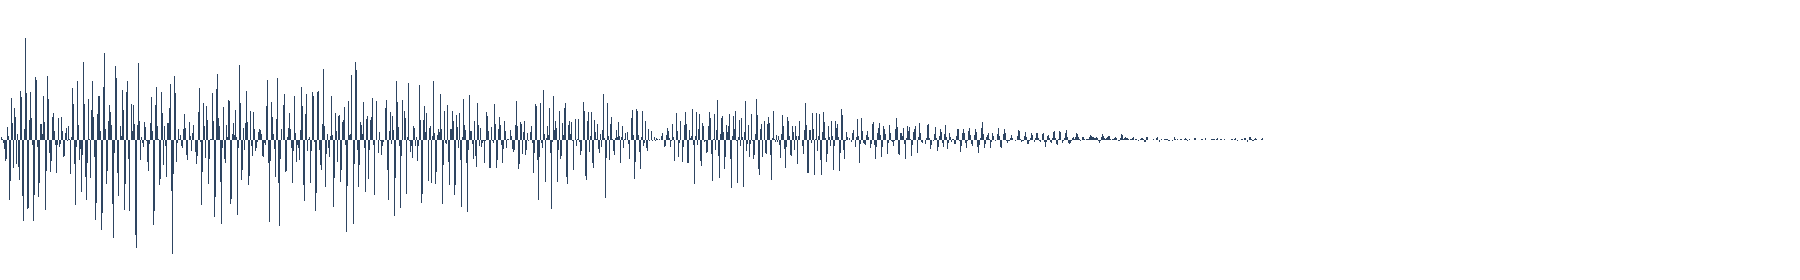
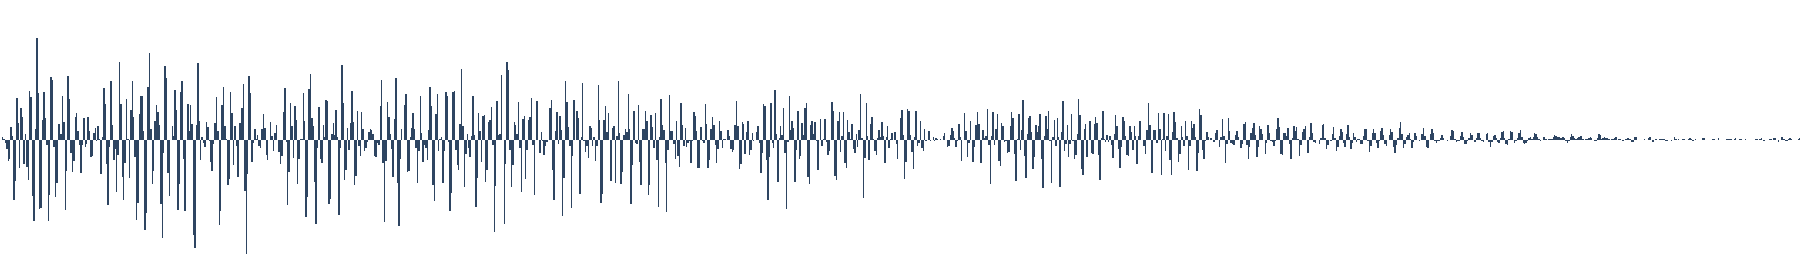
fixed a bug, that caused the image not to fill up completely, when there where less samples than vertical pixels

Changed region(s): [[0.0, 0.2571, 0.9333, 0.8286]]

diff --git a/src/wav2png.cpp b/src/wav2png.cpp
@@ -57,20 +57,43 @@ template <> struct sample_scale<float>
   static const float value = 1.0f;
 };
 
-void compute_waveform(const SndfileHandle& wav, png::image< png::rgba_pixel >& image, const png::rgba_pixel& bg_color)
+/*
+  compute the waveform of the supplied audio-file and store it into out_image.
+*/
+void compute_waveform(
+  const SndfileHandle& wav,
+  png::image< png::rgba_pixel >&
+  out_image,
+  const png::rgba_pixel& bg_color,
+  const png::rgba_pixel& fg_color
+)
 {
   using std::size_t;
   using std::cerr;
   using std::endl;
 
+  const unsigned h = out_image.get_height();
+
   // you can change it to float or short, short was much faster for me.
   typedef short sample_type;
 
-  const size_t w = image.get_width();
-  const size_t h = image.get_height();
+  //there might not be enough samples, in this case, we're using a smaller image and scale it up later.
+  //std::cerr << wav.frames() << std::endl;
+  png::image< png::rgba_pixel > small_image;
+  bool not_enough_samples = wav.frames() < (sf_count_t)out_image.get_width();
 
-  int frames_per_pixel  = std::max<int>(1, wav.frames() / w);
+  if (not_enough_samples)
+    small_image = png::image< png::rgba_pixel >( wav.frames()>0?wav.frames():1, out_image.get_height() );
+
+  png::image< png::rgba_pixel >& image = not_enough_samples?small_image:out_image;
+
+  assert(image.get_width() > 0);
+
+  //std::cout << (&image==&out_image) << " " << (&image==&small_image) << std::endl;
+
+  int frames_per_pixel  = std::max<int>(1, wav.frames() / image.get_width());
   int samples_per_pixel = wav.channels() * frames_per_pixel;
+  std::size_t progress_divisor = std::max<std::size_t>(1, image.get_width()/100);
 
   // temp buffer for samples from audio file
   std::vector<sample_type> block(samples_per_pixel);
@@ -79,7 +102,7 @@ void compute_waveform(const SndfileHandle& wav, png::image< png::rgba_pixel >& i
     for each vertical pixel in the image (x), read frames_per_pixel frames from
     the audio file and find the min and max values.
   */
-  for (size_t x = 0; x < w; ++x)
+  for (size_t x = 0; x < image.get_width(); ++x)
   {
     // read frames
     sf_count_t n = const_cast<SndfileHandle&>(wav).readf(&block[0], frames_per_pixel) * wav.channels();
@@ -107,18 +130,34 @@ void compute_waveform(const SndfileHandle& wav, png::image< png::rgba_pixel >& i
     for(size_t y=0; y<y1;++y)
       image.set_pixel(x, y, bg_color);
 
+    // fill span min to max
+    for(size_t y=y1; y<y2;++y)
+      image.set_pixel(x, y, fg_color);
+
     // fill span max to bottom
     for(size_t y = y2; y<h; ++y)
       image.set_pixel(x, y, bg_color);
     
     // print progress
-    if ( x%(w/100) == 0 )
+    if ( x%(progress_divisor) == 0 )
     {
-      cerr << "\b\b\b\b\b\b\b\b\b\b\b\b\b\b\b\b\b\b\b\bconverting: " << 100*x/w << "%";
+      cerr << "\b\b\b\b\b\b\b\b\b\b\b\b\b\b\b\b\b\b\b\bconverting: " << 100*x/image.get_width() << "%";
     }
   }
   
   cerr << "\b\b\b\b\b\b\b\b\b\b\b\b\b\b\b\b\b\b\b\bconverting: 100%" << endl;
+
+  // upscale the generated image
+  if (not_enough_samples)
+  {
+    for (std::size_t y=0; y<out_image.get_height(); ++y)
+      for(std::size_t x=0; x<out_image.get_width(); ++x)
+      {
+        std::size_t xx = x*small_image.get_width()/out_image.get_width();
+        assert( xx < out_image.get_width() );
+        out_image[y][x] = small_image[y][xx];
+      }
+  }
 }
 
 
@@ -146,16 +185,8 @@ int main(int argc, char* argv[])
   // create image
   png::image< png::rgba_pixel > image(options.width, options.height);
 
-  for(std::size_t y=0; y<image.get_height(); ++y )
-  {
-    for(std::size_t x=0; x<image.get_width(); ++x )
-    {
-      image[y][x] = options.foreground_color;
-    }
-  }
-
   //png::rgba_pixel bg_color(0xef, 0xef, 0xef, 255);
-  compute_waveform(wav, image, options.background_color);
+  compute_waveform(wav, image, options.background_color, options.foreground_color);
 
   // write image to disk
   image.write(options.output_file_name);

diff --git a/src/options.hpp b/src/options.hpp
@@ -107,6 +107,18 @@ struct Options
 		if (output_file_name.empty())
 			output_file_name = input_file_name + ".png";
 
+		if (width == 0)
+		{
+			std::cerr << "Error: width cannot be 0." << std::endl;
+			parse_error = true;
+		}
+
+		if (height == 0)
+		{
+			std::cerr << "Error: height cannot be 0." << std::endl;
+			parse_error = true;
+		}
+
 		if (parse_error || vm.count("help") )
 		{
 			std::cout << "wav2png version " << version::version << std::endl;

diff --git a/README.md b/README.md
@@ -26,6 +26,9 @@ They are ment to be used in webpages. They are not anti-aliased, but look really
 	./wav2png --foreground-color=2e4562ff --background-color=00000000 -o ./examples/example4.png short.wav
 ![example4](https://github.com/beschulz/wav2png/raw/master/examples/example4.png)
 
+	./wav2png --foreground-color=2e4562ff --background-color=00000000 -o ./examples/example5.png sine.wav
+![example5](https://github.com/beschulz/wav2png/raw/master/examples/example5.png)
+
 Note, that you can easily adjust the color of the waveform by changing the background behind it.
 But you can also specify colors via --foreground-color and --background-color
 
